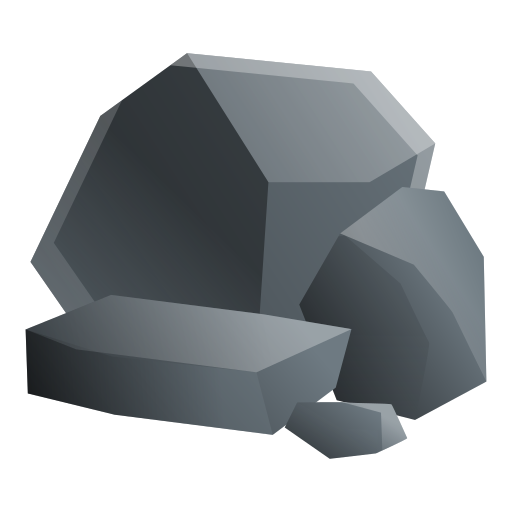
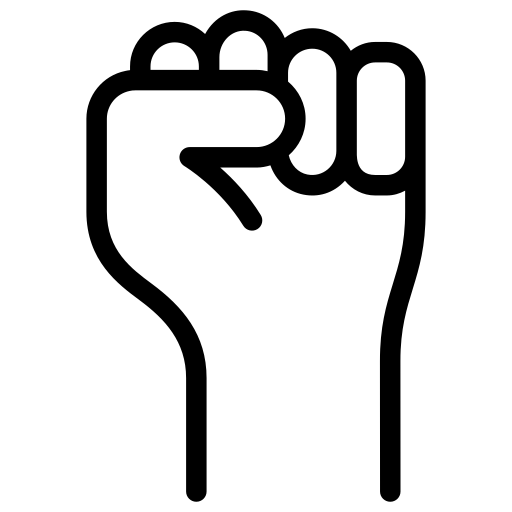
rps v1.0

diff --git a/style.css b/style.css
@@ -1,4 +1,19 @@
-/* https://coolors.co/palette/2b2d42-8d99ae-edf2f4-ef233c-d90429 */
+/* Palette: deep slate + sky accents (https://coolors.co/0f172a-1e293b-38bdf8-94a3b8-e2e8f0) */
+
+:root {
+    --bg-page: #0f172a;
+    --bg-card: #1e293b;
+    --text-primary: #e2e8f0;
+    --text-muted: #94a3b8;
+    --accent: #38bdf8;
+    --accent-hover: #0ea5e9;
+    --border: #334155;
+    --rps-hover-bg: #334155;
+    --shadow: rgba(15, 23, 42, 0.45);
+    --result-win: #4ade80;
+    --result-tie: #fbbf24;
+    --result-lose: #fb7185;
+}
 
 * {
     margin: 0;
@@ -7,36 +22,27 @@
 }
 
 body {
-    background-color: #1a1a1a;
-    color: #BFDBF7;
-    min-height: 100vh;
+    background-color: var(--bg-card);
+    color: var(--text-primary);
+    min-height: 100dvh;
     display: flex;
     justify-content: center;
     align-items: center;
-    padding: 20px;
+    flex-direction: column;
     box-sizing: border-box;
-}
-
-main {
-    background-color: #053C5E;
-    border-radius: 8px;
-    padding: 40px;
+    background-color: var(--bg-card);
     max-width: 800px;
     width: 100%;
-    box-shadow: 0 4px 6px rgba(0, 0, 0, 0.3);
 }
+
+
 
 h1 {
+    font-size: 3rem;
     text-align: center;
     margin-bottom: 3rem;
-}
-
-.select-container {
-    display: flex;
-    justify-content: space-evenly;
-
-
-}
+    color: var(--accent);
+    letter-spacing: 0.02em;}
 
 .winner-display {
     display: flex;
@@ -46,66 +52,81 @@ h1 {
     padding-top: 2rem;
     padding-bottom: 2rem;
     margin-bottom: 3rem;
-    border: 2px solid #BFDBF7;
+    border: 2px solid var(--border);
     border-radius: 12px;
     font-weight: 600;
-    font-size: 4rem;
+    font-size: 3rem;
+    text-align: center;
+    background: rgba(15, 23, 42, 0.35);
+}
+
+
+#matchup {
+    color: var(--text-muted);
+    text-transform: capitalize;
+    margin-bottom: 2rem;
+    font-size: .8em;
+}
+
+.rps-container {
+    display: flex;
+    justify-content: space-evenly;
+    gap: .7rem;
 
 }
 
 .rps-item {
+    display: flex;
+    flex-direction: column;
+    align-items: center;
     font-size: 2rem;
     font-weight: 600;
-    border: 2px solid #BFDBF7;
+    border: 2px solid var(--border);
     border-radius: 12px;
-    padding: 1.5rem;
+    padding: .7rem;
+    margin: 0rem;
     cursor: pointer;
     transition: transform 0.2s, background-color 0.2s, border-color 0.2s;
-}
-
-.rps-item:hover {
-    transform: scale(1.05);
-    background-color: #1F7A8C;
-    border-color: #1F7A8C;
+    background: rgba(15, 23, 42, 0.25);
 }
 
 .item-title {
     text-align: center;
     margin-bottom: 1rem;
+    color: var(--text-primary);
+}
 
+.rps-item:hover {
+    transform: scale(1.05);
+    background-color: var(--rps-hover-bg);
+    border-color: var(--accent);
 }
 
 img {
-    width: 100px;
+    width: 5rem;
 }
 
 #player,
 #computer {
     display: none;
-
 }
 
-#player {
-    color: green
+#player.result-win,
+#computer.result-win {
+    color: var(--result-win);
 }
 
-#computer {
-    color: red;
+#player.result-tie {
+    color: var(--result-tie);
 }
 
-#tie {
-    color: #f0ad4e;
-}
-
-#matchup {
-    text-transform: capitalize;
-    margin-bottom: 2rem;
+#computer.result-lose {
+    color: var(--result-lose);
 }
 
 .pop {
     animation: pop 0.3s ease-out;
 }
-
 
 @keyframes pop {
     0% {

diff --git a/script.js b/script.js
@@ -53,24 +53,26 @@ document.querySelectorAll(".rps-item").forEach(item => {
 
         playerDisplay.style.display = "none";
         computerDisplay.style.display = "none";
+        playerDisplay.classList.remove("result-tie", "result-win", "result-lose");
+        computerDisplay.classList.remove("result-tie", "result-win", "result-lose");
 
         if (result === "tie") {
             playerDisplay.textContent = "Tie!";
-            playerDisplay.style.color = "orange";
+            playerDisplay.classList.add("result-tie");
             playerDisplay.style.display = "block";
             playerDisplay.classList.remove("pop");
             void playerDisplay.offsetWidth;
             playerDisplay.classList.add("pop");
         } else if (result === "player") {
             playerDisplay.textContent = "You win!";
-            playerDisplay.style.color = "green";
+            playerDisplay.classList.add("result-win");
             playerDisplay.style.display = "block";
             playerDisplay.classList.remove("pop");
             void playerDisplay.offsetWidth;
             playerDisplay.classList.add("pop");
         } else {
-            computerDisplay.textContent = "Computer wins!";
-            computerDisplay.style.color = "red";
+            computerDisplay.textContent = "You Lose!";
+            computerDisplay.classList.add("result-lose");
             computerDisplay.style.display = "block";
             computerDisplay.classList.remove("pop");
             void computerDisplay.offsetWidth;

diff --git a/index.html b/index.html
@@ -10,7 +10,7 @@
 
 <body>
 
-    <main>
+   
 
         <h1>Rock Paper scissors</h1>
 
@@ -19,7 +19,7 @@
             <div id="player"></div>
             <div id="computer"></div>
         </section>
-        <section class="select-container">
+        <section class="rps-container">
 
             <div class="rps-item" id="rock">
                 <div class="item-title">Rock</div>
@@ -39,7 +39,7 @@
 
         </section>
 
-    </main>
+    
 
 
 
